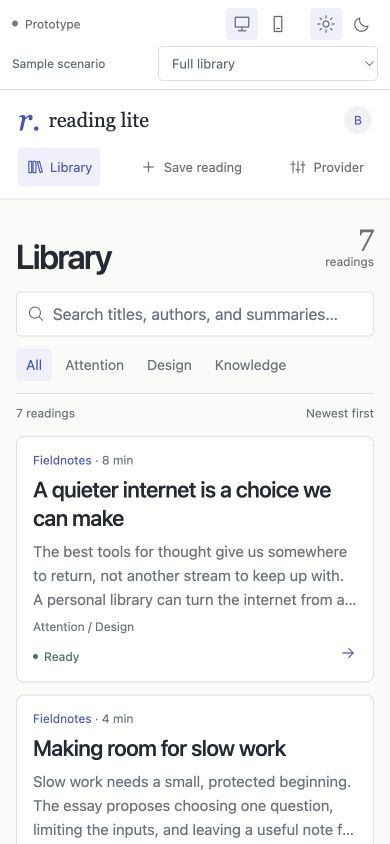
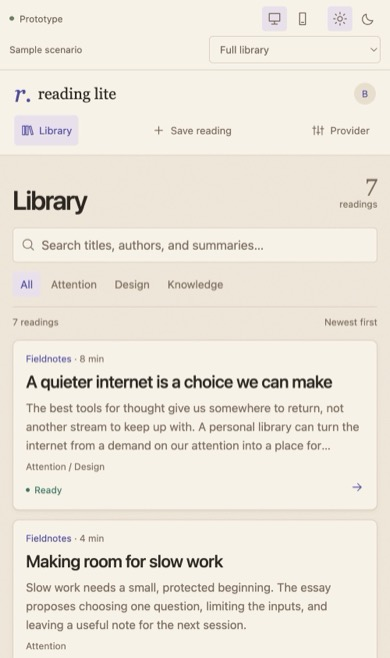
docs(design): recapture the Connected screenshots for the warm revision
Recapture all 22 desktop/phone JPEGs against dcfe7a0 (the two warm-palette
commits) via Chrome DevTools MCP, replacing the pre-warm captures. Redo the
first two phone captures a second time after finding they inherited stale
app state (a leftover scenario selection and pending item) from an earlier
capture pass in the same browser session.

Regenerate capture-manifest.json (hashes, dimensions, source commit,
capture date), screenshots.md (pixel dimensions), and walkthrough.html
(scene data) from the new captures. Rewrite validation.md to record both
capture rounds and note the two SPA login-return failures reproduce on
main, so they predate this work. Update README.md and design-spec.md to
point at the new source commit and describe the warm revision.

diff --git a/docs/design/connected/walkthrough.html b/docs/design/connected/walkthrough.html
@@ -6,7 +6,7 @@
 </style>
 <main><h1>Connected · captured walkthrough</h1>
 <p class="intro">The selected prototype, preserved as 22 captioned states. Step through reading, search, capture, recovery, and phone layouts. Playback advances every five seconds; pause to inspect. This is a screenshot replay, not a continuous video.</p>
-<p class="intro">Source: <a href="https://github.com/brian-bell/reading-lite/commit/e121cf1cd669cd6d84c547bcbcba3abba68b9bab">e121cf1</a> · September 9, 2026 · <a href="README.md">Handoff</a> · <a href="design-spec.md">Specification</a></p>
+<p class="intro">Source: <a href="https://github.com/brian-bell/reading-lite/commit/dcfe7a04dd04034e581779a53156e0904769a344">dcfe7a0</a> · September 10, 2026 · <a href="README.md">Handoff</a> · <a href="design-spec.md">Specification</a></p>
 <nav aria-label="Walkthrough controls"><button id="prev">Previous</button><button id="play" aria-pressed="false">Play</button><button id="next">Next</button><label for="scene">Scene</label><select id="scene"><option value="0">01 · Library · desktop</option>
 <option value="1">02 · Reading · desktop</option>
 <option value="2">03 · Source · desktop</option>
@@ -33,7 +33,7 @@
 <noscript><p>Playback requires JavaScript. Every image and caption is available in <a href="screenshots.md">the screenshot index</a>.</p></noscript>
 <footer>Authored sample content only. Preview controls are visible in the captures. Source, screenshots, and decisions are separate evidence: the implementation checklist records what remains unresolved.</footer></main>
 <script>
[2 lines of base64/hex data omitted]
 const el=id=>document.getElementById(id);let index=0,timer=null;
 function stop(){clearInterval(timer);timer=null;el('play').textContent='Play';el('play').setAttribute('aria-pressed','false')}
 function render(){const s=scenes[index];el('title').textContent=s.title;el('caption').textContent=s.steps;el('meta').textContent=`${index+1} of ${scenes.length} · ${s.width} × ${s.height}`;el('shot').src=s.file;el('shot').alt=s.title+'. '+s.steps;el('original').href=s.file;el('scene').value=index;el('prev').disabled=index===0;el('next').disabled=index===scenes.length-1;if(index===scenes.length-1)stop()}

diff --git a/docs/design/connected/screenshots.md b/docs/design/connected/screenshots.md
@@ -11,25 +11,25 @@ from actions that must follow them.
 
 | Capture | Pixels | Reproduce |
 | --- | --- | --- |
-| [Library · desktop](screenshots/01-library-desktop-light.jpg) | 1440 × 1000 | Full library; Library; light. Fresh reload restores seven fixtures. |
-| [Reading · desktop](screenshots/02-reading-desktop-light.jpg) | 1440 × 1000 | Open “A quieter internet…” from the library. Summary selected. |
-| [Source · desktop](screenshots/03-source-desktop-light.jpg) | 1440 × 1000 | On the lead reading, select Source. Captured at top; source continues below. |
-| [Connection trail](screenshots/04-reading-trail-desktop.jpg) | 1440 × 1000 | Follow “Libraries are gardens…” from the lead reading. The destination shows its origin and return action. |
-| [Reading · dark](screenshots/05-reading-desktop-dark.jpg) | 1440 × 1000 | Return to lead reading, Summary, Dark theme. |
-| [Search and tag](screenshots/06-library-filtered-desktop.jpg) | 1440 × 1000 | Library; search gardens; select Knowledge. Open and return preserves these filters. |
-| [Save URL](screenshots/07-capture-desktop.jpg) | 1440 × 1000 | Save reading; URL tab; default sample URL and Ready preview result. |
-| [Pending](screenshots/08-pending-desktop.jpg) | 1440 × 1000 | Save URL with Ready preview result. Dynamic sample capture-1 is pending. |
-| [Ready](screenshots/09-ready-desktop.jpg) | 1440 × 1000 | From capture-1 pending, click Check status. No real job runs. |
-| [Source failure](screenshots/10-failed-desktop.jpg) | 1440 × 1000 | Select Failed capture. Recovery actions and collapsed diagnostics shown. |
-| [Provider · missing key](screenshots/11-provider-desktop.jpg) | 1440 × 1000 | Open Provider with its initial Missing key state. Scenario selector still says Failed capture; it does not control provider state. |
-| [Library · phone](screenshots/12-library-phone-light.jpg) | 390 × 844 | Fresh reload at library; 390 × 844 viewport, Desktop layout toggle, light. |
-| [Reading · phone](screenshots/13-reading-phone-light.jpg) | 390 × 844 | Open lead reading, Summary. Page continues below. |
-| [Connections · phone](screenshots/14-connections-phone.jpg) | 390 × 844 | Click Connections & tensions; allow smooth scroll to settle. Captured scrolled to the panel, with return action. |
-| [Reading · phone dark](screenshots/15-reading-phone-dark.jpg) | 390 × 844 | Return to the reading and select Dark theme. |
-| [Markdown · phone](screenshots/16-markdown-phone.jpg) | 390 × 844 | Light theme; Save reading; Markdown tab with authored default text. |
-| [Provider removed · phone](screenshots/17-provider-removed-phone.jpg) | 390 × 844 | Provider; Preview setup state → Removed key. Top of page, including retained-library explanation. |
-| [Long title · phone](screenshots/18-long-title-phone.jpg) | 390 × 844 | Sample scenario → Long title. Title wraps without clipping. |
-| [Failure · phone dark](screenshots/19-failed-phone-dark.jpg) | 390 × 844 | Sample scenario → Failed capture; Dark theme. Recovery controls continue below viewport. |
-| [Unavailable source](screenshots/20-source-unavailable-desktop.jpg) | 1440 × 1000 | 1440 × 1000 viewport; Light theme; Sample scenario → Unavailable source. |
-| [Removed target](screenshots/21-deleted-connection-desktop.jpg) | 1440 × 1000 | Sample scenario → Deleted connection, then open “Notes on the attention economy.” The selector alone opens its originating reading. |
-| [Sparse reading](screenshots/22-sparse-reading-desktop.jpg) | 1440 × 1000 | Sample scenario → Sparse archive, then open the only reading. Novelty and relationships state insufficient history. |
+| [Library · desktop](screenshots/01-library-desktop-light.jpg) | 1440 × 930 | Full library; Library; light. Fresh reload restores seven fixtures. |
+| [Reading · desktop](screenshots/02-reading-desktop-light.jpg) | 1440 × 930 | Open “A quieter internet…” from the library. Summary selected. |
+| [Source · desktop](screenshots/03-source-desktop-light.jpg) | 1440 × 930 | On the lead reading, select Source. Captured at top; source continues below. |
+| [Connection trail](screenshots/04-reading-trail-desktop.jpg) | 1440 × 930 | Follow “Libraries are gardens…” from the lead reading. The destination shows its origin and return action. |
+| [Reading · dark](screenshots/05-reading-desktop-dark.jpg) | 1440 × 930 | Return to lead reading, Summary, Dark theme. |
+| [Search and tag](screenshots/06-library-filtered-desktop.jpg) | 1440 × 930 | Library; search gardens; select Knowledge. Open and return preserves these filters. |
+| [Save URL](screenshots/07-capture-desktop.jpg) | 1440 × 930 | Save reading; URL tab; default sample URL and Ready preview result. |
+| [Pending](screenshots/08-pending-desktop.jpg) | 1440 × 930 | Save URL with Ready preview result. Dynamic sample capture-1 is pending. |
+| [Ready](screenshots/09-ready-desktop.jpg) | 1440 × 930 | From capture-1 pending, click Check status. No real job runs. |
+| [Source failure](screenshots/10-failed-desktop.jpg) | 1440 × 930 | Select Failed capture. Recovery actions and collapsed diagnostics shown. |
+| [Provider · missing key](screenshots/11-provider-desktop.jpg) | 1440 × 930 | Open Provider with its initial Missing key state. Scenario selector still says Failed capture; it does not control provider state. |
+| [Library · phone](screenshots/12-library-phone-light.jpg) | 390 × 658 | Fresh reload at library; 390 × 658 viewport, Desktop layout toggle, light. |
+| [Reading · phone](screenshots/13-reading-phone-light.jpg) | 390 × 658 | Open lead reading, Summary. Page continues below. |
+| [Connections · phone](screenshots/14-connections-phone.jpg) | 390 × 658 | Click Connections & tensions; allow smooth scroll to settle. Captured scrolled to the panel, with return action. |
+| [Reading · phone dark](screenshots/15-reading-phone-dark.jpg) | 390 × 658 | Return to the reading and select Dark theme. |
+| [Markdown · phone](screenshots/16-markdown-phone.jpg) | 390 × 658 | Light theme; Save reading; Markdown tab with authored default text. |
+| [Provider removed · phone](screenshots/17-provider-removed-phone.jpg) | 390 × 658 | Provider; Preview setup state → Removed key. Top of page, including retained-library explanation. |
+| [Long title · phone](screenshots/18-long-title-phone.jpg) | 390 × 658 | Sample scenario → Long title. Title wraps without clipping. |
+| [Failure · phone dark](screenshots/19-failed-phone-dark.jpg) | 390 × 658 | Sample scenario → Failed capture; Dark theme. Recovery controls continue below viewport. |
+| [Unavailable source](screenshots/20-source-unavailable-desktop.jpg) | 1440 × 930 | 1440 × 930 viewport; Light theme; Sample scenario → Unavailable source. |
+| [Removed target](screenshots/21-deleted-connection-desktop.jpg) | 1440 × 930 | Sample scenario → Deleted connection, then open “Notes on the attention economy.” The selector alone opens its originating reading. |
+| [Sparse reading](screenshots/22-sparse-reading-desktop.jpg) | 1440 × 930 | Sample scenario → Sparse archive, then open the only reading. Novelty and relationships state insufficient history. |

diff --git a/docs/design/connected/validation.md b/docs/design/connected/validation.md
@@ -1,7 +1,26 @@
 # Validation record
 
-September 9, 2026. Runtime source: `e121cf1cd669cd6d84c547bcbcba3abba68b9bab`.
-Host Node: v25.8.1. These results describe the local capture environment, not CI.
+September 9, 2026 (original capture); September 10, 2026 (warm-palette recapture).
+Runtime source: `dcfe7a04dd04034e581779a53156e0904769a344`. These results describe
+the local capture environment, not CI.
+
+## September 10 recapture
+
+| Check | Result |
+| --- | --- |
+| `npm run prototype:test` in `web/` | 25/25 passed (run before the recapture, against the same commit; no source changed since) |
+| `npm run prototype:connected:build` | Passed (same commit) |
+| `npm run prototype:build` | Passed (same commit) |
+| Connected browser capture | 22 JPEGs recaptured via Chrome DevTools MCP at 1440 × 1000 and 390 × 844 CSS px, downsampled to 1440 × 930 and 390 × 658 pixel images |
+| Browser interactions exercised during capture | Source/Summary tab switch, connection follow and return, search and tag filter, URL save through pending and Check status to Ready, Failed capture recovery view, Markdown tab, Provider preview states, mobile Connections & tensions jump and return, all seven sample scenarios |
+| Handoff assets | All 22 image hashes and dimensions recomputed and written into `capture-manifest.json`; `screenshots.md` and `walkthrough.html` regenerated from it |
+
+This recapture did not rerun `autoreview` or the production SPA test suite;
+only CSS tokens, the design spec, and screenshot assets changed, not app code
+or production source. See the September 9 record below for those results,
+still valid because no source file they cover has changed since.
+
+## September 9 original capture
 
 | Check | Result |
 | --- | --- |
@@ -21,17 +40,23 @@ The two SPA failures are `returns to Security after Continue when next is the
 security path` and `returns to a localStorage next after a new-tab verify hop`
 in `web/src/App.test.tsx`. Both expect the consumed login-next storage value to
 be cleared; the old value remains. Earlier runs reproduced them with prototype
-tests excluded, and one earlier isolated SPA run passed 130/130. Production
-source/tests were not changed to address this separate problem.
+tests excluded, and one earlier isolated SPA run passed 130/130. They also
+reproduce on `main` outside this branch, so they predate this work and are not
+a regression from it. Production source/tests were not changed to address this
+separate problem.
 
 Runtime review command: the installed `autoreview` helper with `--mode local`
 and a prompt describing the isolated fixture-only prototype. Review covered the
 runtime/configuration changes before their source checkpoint; subsequent handoff
 prose, screenshot files, and replay received local link/asset and browser checks.
 
+## Capture notes (both rounds)
+
 The captures are viewport screenshots, not complete page exports. Long pages
 extend below the image; the phone connection panel has its own scrolled capture.
-Desktop captures use 1440 × 1000; phone captures use 390 × 844. The preview's
+Desktop captures request 1440 × 1000 CSS px; phone captures request 390 × 844.
+The saved images are downsampled to the visible content area (1440 × 930 and
+390 × 658), excluding browser chrome outside the CSS viewport. The preview's
 Desktop layout toggle remains selected in both, and the browser viewport drives
 responsiveness. No native phone hardware or Safari/browser matrix was tested.
 
@@ -45,4 +70,4 @@ to resolve in implementation.
 Worker tests were not rerun for this frontend prototype/documentation capture.
 No Worker/API/production code, provider calls, deployment, or data migration is
 part of this handoff. The source checkpoint preserves the original branch base
-rather than merging five unrelated newer main commits into the reference.
+rather than merging newer main commits into the reference.

diff --git a/docs/design/connected/README.md b/docs/design/connected/README.md
@@ -1,10 +1,17 @@
 # Connected prototype handoff
 
-Captured September 9, 2026. Brian selected Connected as the direction to continue,
-then requested less decorative copy, tighter whitespace, and a dedicated prototype.
-This package preserves that version for future implementation. It supplies evidence
-for [Phase 2, issue #337](https://github.com/brian-bell/reading-lite/issues/337);
-its remaining design decisions still need review.
+Captured September 9, 2026; recaptured September 10, 2026 after a warm-palette
+revision. Brian selected Connected as the direction to continue, then requested
+less decorative copy, tighter whitespace, and a dedicated prototype. This package
+preserves that version for future implementation. It supplies evidence for
+[Phase 2, issue #337](https://github.com/brian-bell/reading-lite/issues/337); its
+remaining design decisions still need review.
+
+The September 10 revision moves the light-mode surfaces from white and pale stone
+to parchment and cream, adds a tiled paper grain to the page and novelty panel,
+gives cards a faint warm shadow, and prefers Charter/Iowan Old Style for the lead
+and source text. See the [design specification](design-spec.md#color-tokens) for
+the full token table.
 
 ## Start here
 
@@ -24,7 +31,7 @@ its remaining design decisions still need review.
 ## Frozen source
 
 The runnable reference is commit
-[`e121cf1`](https://github.com/brian-bell/reading-lite/commit/e121cf1cd669cd6d84c547bcbcba3abba68b9bab).
+[`dcfe7a0`](https://github.com/brian-bell/reading-lite/commit/dcfe7a04dd04034e581779a53156e0904769a344).
 All screenshots in this package represent that commit's runtime source.
 The handoff documentation is committed afterward so it can name the exact source
 revision without a circular self-reference.
@@ -41,7 +48,7 @@ To inspect the frozen version without changing an active checkout, run from the
 repository root, choosing an unused sibling directory:
 
 ```sh
-git worktree add --detach ../reading-lite-connected-reference e121cf1cd669cd6d84c547bcbcba3abba68b9bab
+git worktree add --detach ../reading-lite-connected-reference dcfe7a04dd04034e581779a53156e0904769a344
 cd ../reading-lite-connected-reference/web
 npm ci
 npm run prototype:connected:dev

diff --git a/docs/design/connected/design-spec.md b/docs/design/connected/design-spec.md
@@ -77,7 +77,7 @@ Do not reproduce that defect as a design requirement.
 | `--positive` | `#3c755f` | `#91d0b2` | Ready/success |
 | `--card-shadow` | warm `rgba(84, 62, 36)` at 5–7% | black at 25–28% | Library cards, forms, status cards |
 
-Warm revision, September 9, 2026: the palette moved from cool blue-grey to parchment and cream in light mode (no pure white surfaces remain) and warm charcoal in dark mode, the page and novelty panel carry a low-opacity SVG grain, cards take a faint warm shadow, and the lead and source paragraphs use Charter, Iowan Old Style, Palatino, then Georgia. The screenshots predate this revision.
+Warm revision, September 9/10, 2026: the palette moved from cool blue-grey to parchment and cream in light mode (no pure white surfaces remain) and warm charcoal in dark mode, the page and novelty panel carry a low-opacity SVG grain, cards take a faint warm shadow, and the lead and source paragraphs use Charter, Iowan Old Style, Palatino, then Georgia. The September 10 screenshots reflect this revision.
 
 Connections use a filled accent surface. Tensions use a neutral surface with a
 colored left rule and an explicit Tensions heading. Removed connections use a
